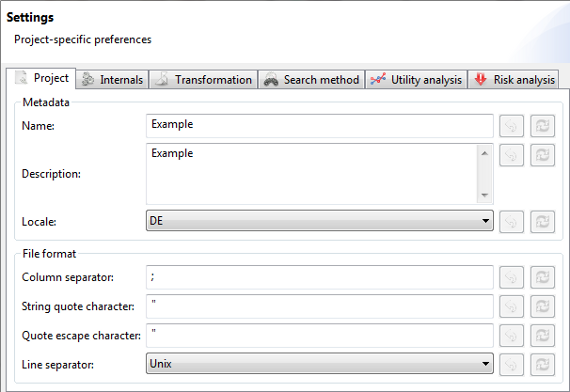
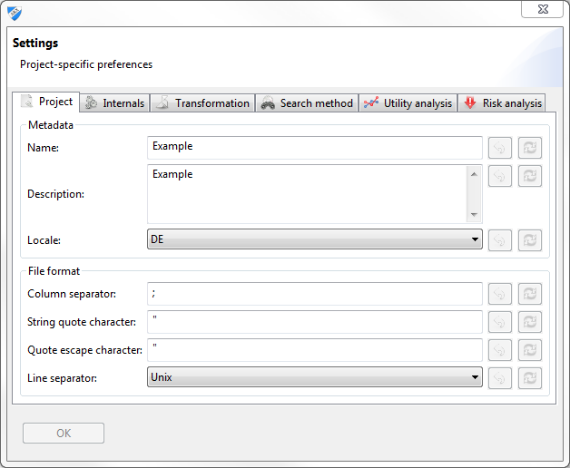
Update

Changed region(s): [[0.0, 0.0, 1.0, 1.0]]

diff --git a/help/v3.3.1/global_settings.html b/help/v3.3.1/global_settings.html
@@ -3,7 +3,7 @@
     <p>The settings window is accessible from either the application menu or the application toolbar. The <em>Project</em>
        section allows to alter general project properties, including the syntax for
        importing and exporting data.</p>
-    <img src="/help/v3.3.1/img/general_settings_1.png" alt="Project settings" width="570" height="392" />
+    <img src="/help/v3.3.1/img/general_settings_1.png" alt="Project settings" width="570" height="468" />
     <p>The <em>Internals</em> section allows to adjust some parameters of the optimizations employed by ARX.
         Changing the <em>number of snapshots</em> enables users to control a space-time-tradeoff used during data de-identification.
         Choosing a value of <em>1</em> greatly reduces the main memory requirements of the tool, while leading to
